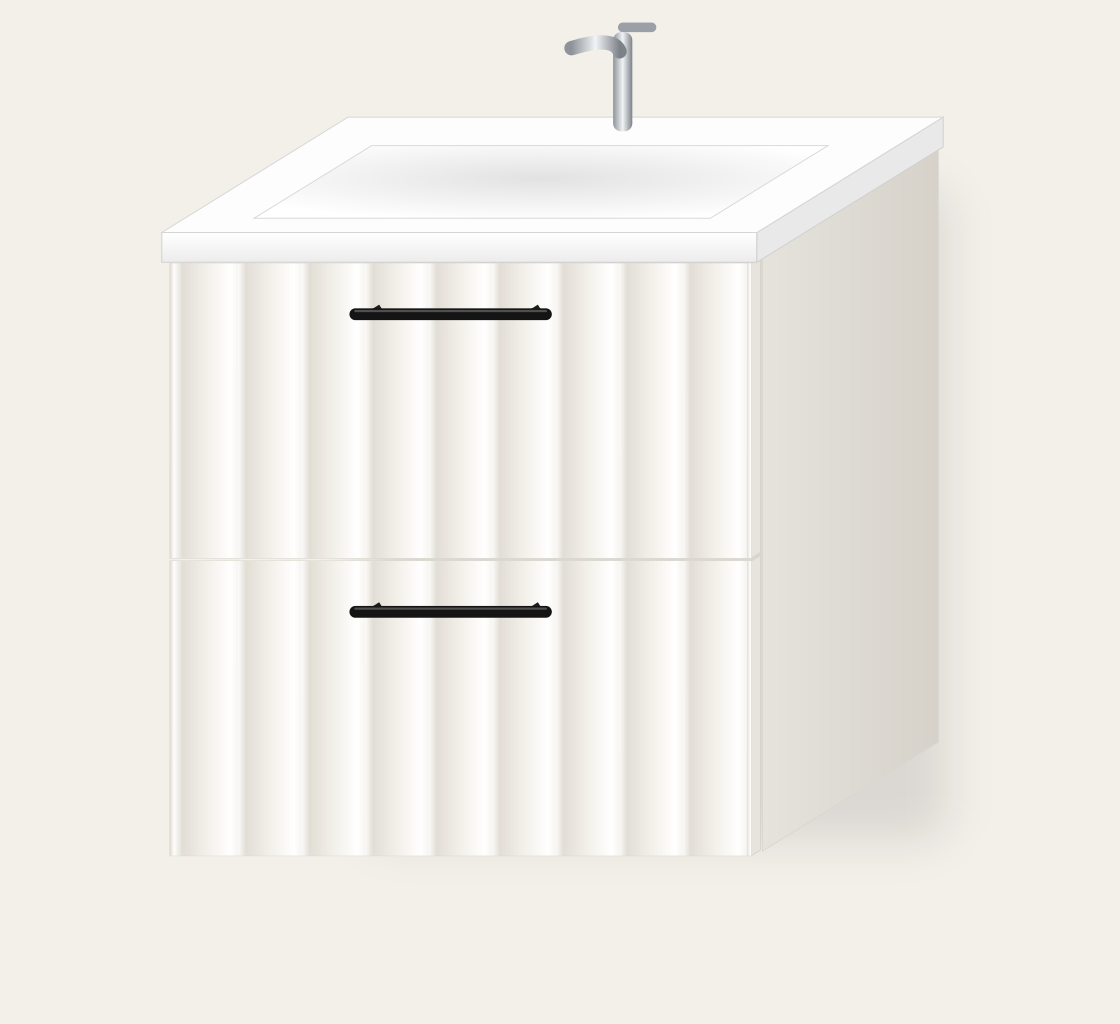
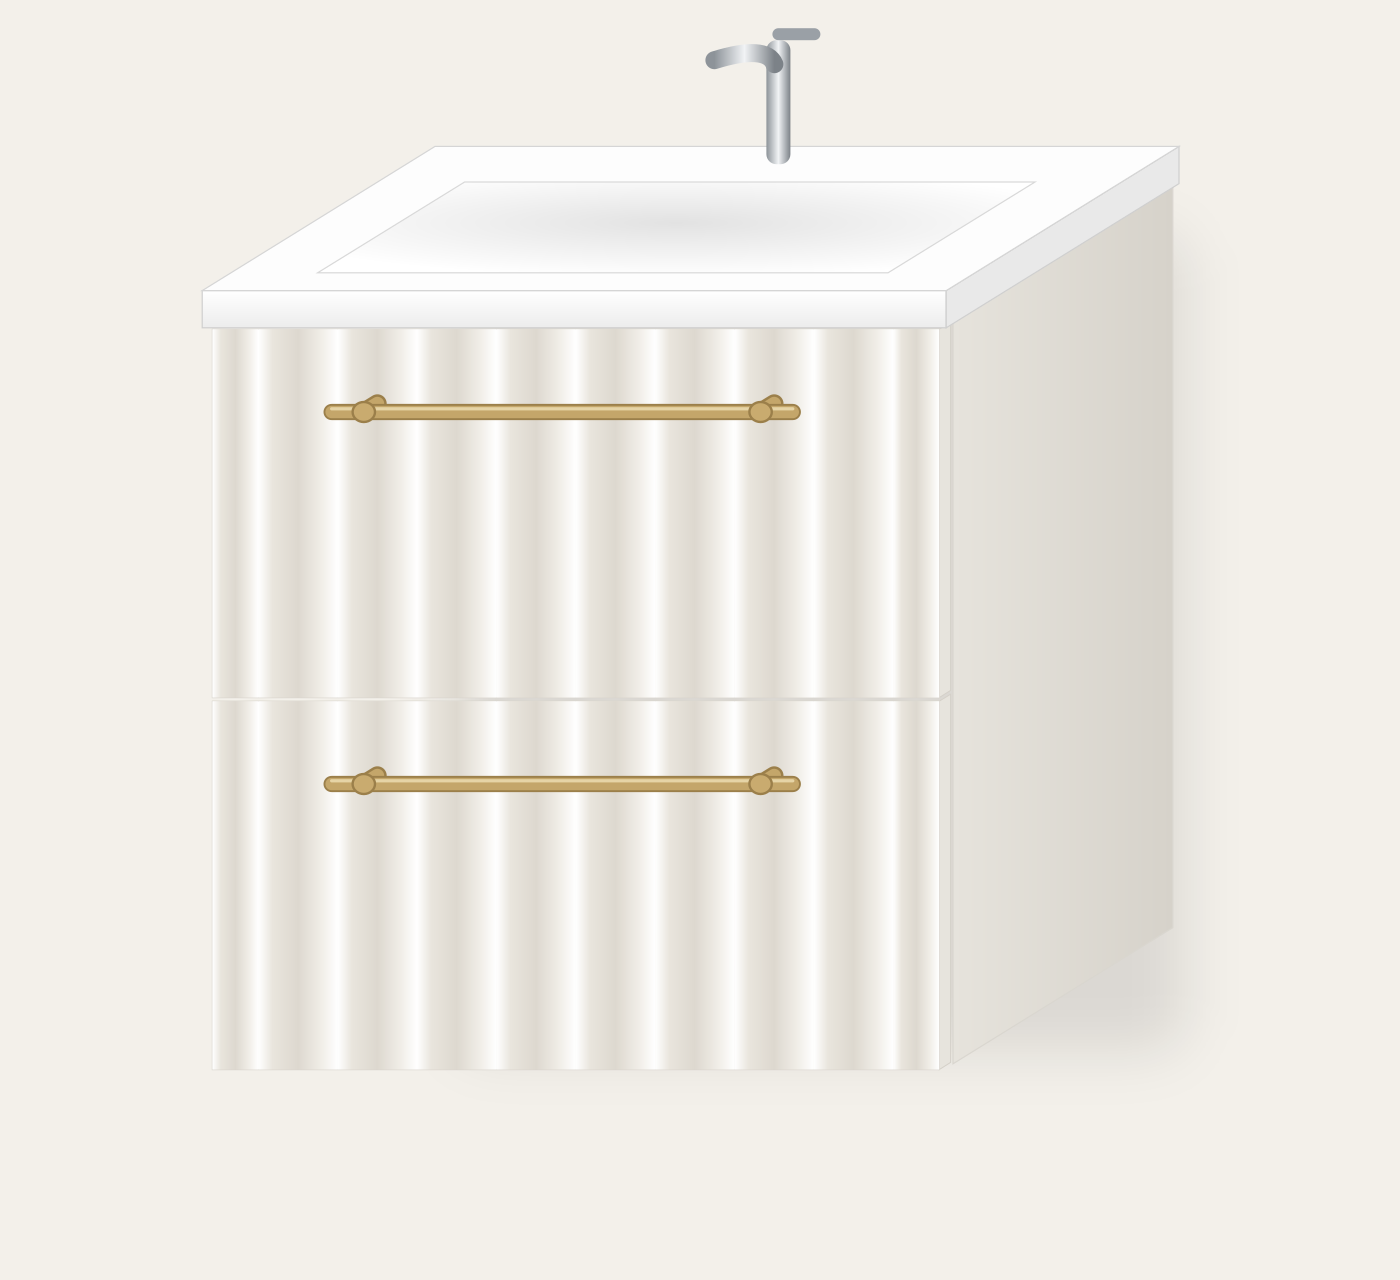
Модель 3: визуал с ручкой Bravo Sunrise FX-050-320-16 (матове золото), волны от гребня в центре
Claude-Session: https://claude.ai/code/session_01SKsW9MPvsMJrjoN6PXae5T

Changed region(s): [[0.1875, 0.25, 0.6875, 0.8438]]

diff --git a/modeli/vizual_podves.py b/modeli/vizual_podves.py
@@ -27,6 +27,27 @@ def handle(v, P, xy, hx, hy, zf=0):
     v.append(f'<line x1="{ax}" y1="{ay-2}" x2="{bx}" y2="{by-2}" stroke="rgba(255,255,255,.25)" stroke-width="1.4" stroke-linecap="round"/>')
 
 
+def handle_sunrise(v, P, xy, hx, hy, zf=0, cc=320, L=372, proj=26):
+    """Bravo Sunrise FX-050-320-16, матове золото: круглая штанга Ø12, стойки Ø15 на ±cc/2, вылет ≈26 (ось штанги)."""
+    gold = "#c4a66a"   # матове золото (сплошной цвет: градиент на линии без высоты не рисуется)
+    (sax, say), (sbx, sby) = xy(P(hx - L / 2 + 6, hy - 12, zf)), xy(P(hx + L / 2 + 6, hy - 12, zf))
+    v.append(f'<line x1="{sax}" y1="{say}" x2="{sbx}" y2="{sby}" stroke="rgba(0,0,0,.16)" stroke-width="{10*s:.1f}" stroke-linecap="round" filter="url(#blur)"/>')
+    for c in (hx - cc / 2, hx + cc / 2):
+        (x1, y1), (x2, y2) = xy(P(c, hy, zf)), xy(P(c, hy, zf - proj))
+        v.append(f'<line x1="{x1}" y1="{y1}" x2="{x2}" y2="{y2}" stroke="#9b7f4a" stroke-width="{15*s:.1f}" stroke-linecap="round"/>')
+        v.append(f'<line x1="{x1}" y1="{y1}" x2="{x2}" y2="{y2}" stroke="{gold}" stroke-width="{11*s:.1f}" stroke-linecap="round"/>')
+    (ax, ay), (bx, by) = xy(P(hx - L / 2, hy, zf - proj)), xy(P(hx + L / 2, hy, zf - proj))
+    v.append(f'<line x1="{ax}" y1="{ay}" x2="{bx}" y2="{by}" stroke="#9b7f4a" stroke-width="{13*s:.1f}" stroke-linecap="round"/>')
+    v.append(f'<line x1="{ax}" y1="{ay}" x2="{bx}" y2="{by}" stroke="{gold}" stroke-width="{10*s:.1f}" stroke-linecap="round"/>')
+    v.append(f'<line x1="{ax}" y1="{ay-1.6}" x2="{bx}" y2="{by-1.6}" stroke="#e6d4a6" stroke-width="1.6" stroke-linecap="round"/>')
+    for c in (hx - cc / 2, hx + cc / 2):   # кольцо стойки на штанге
+        cx_, cy_ = xy(P(c, hy, zf - proj))
+        v.append(f'<ellipse cx="{cx_}" cy="{cy_}" rx="{9*s:.1f}" ry="{8*s:.1f}" fill="#c9ab6f" stroke="#9b7f4a" stroke-width="1.2"/>')
+
+
+SUNRISE_AXIS = 60  # ось ручки от верхнего края фасада, мм
+
+
 LT22_DROP = 38   # верх профиля LT22 от верхнего края фасада (модель 2, под рамкой)
 
 
@@ -88,7 +109,7 @@ def render(mkey, style):
             cx = (xl + xr) / 2
             k0 = -int((cx - xl) // 64) - 1
             for kk in range(k0, -k0 + 1):
-                a, b2 = cx + kk * 64 - 32, cx + kk * 64 + 32
+                a, b2 = cx + kk * 64, cx + kk * 64 + 64   # от гребня до гребня: гребень в центре, дно волн на ±32, ±96, ±160…
                 a, b2 = max(a, xl), min(b2, xr)
                 if b2 - a < 2:
                     continue
@@ -98,6 +119,8 @@ def render(mkey, style):
             if style == "maura":
                 # под рамкой Мауры: рамка ~20 мм + фреза (центр 23) -> верх профиля на 38 мм ниже края
                 handle_lt22(v, P, xy, poly, f["x"] + f["w"] / 2, Y0 + f["top"] - LT22_DROP)
+            elif style == "sunset":
+                handle_sunrise(v, P, xy, f["x"] + f["w"] / 2, Y0 + f["top"] - SUNRISE_AXIS)
             else:
                 handle(v, P, xy, f["x"] + f["w"] / 2, Y0 + f["top"] - 45)
     # умывальник
@@ -118,7 +141,8 @@ def render(mkey, style):
  <linearGradient id="frontGrad" x1="0" y1="0" x2="1" y2="1"><stop offset="0" stop-color="#ffffff"/><stop offset="1" stop-color="#efece6"/></linearGradient>
  <linearGradient id="panelGrad" x1="0" y1="0" x2="1" y2="1"><stop offset="0" stop-color="#fbfaf7"/><stop offset="1" stop-color="#eeebe4"/></linearGradient>
  <linearGradient id="sideGrad" x1="0" y1="0" x2="1" y2="0"><stop offset="0" stop-color="#e6e3dc"/><stop offset="1" stop-color="#d6d2ca"/></linearGradient>
- <linearGradient id="wave" x1="0" y1="0" x2="1" y2="0"><stop offset="0" stop-color="#fbfaf8"/><stop offset=".12" stop-color="#e2ded6"/><stop offset=".5" stop-color="#f3f0ea"/><stop offset=".88" stop-color="#ffffff"/><stop offset="1" stop-color="#f7f5f1"/></linearGradient>
+ <linearGradient id="wave" x1="0" y1="0" x2="1" y2="0"><stop offset="0" stop-color="#ffffff"/><stop offset=".18" stop-color="#e9e5dd"/><stop offset=".5" stop-color="#ddd8cf"/><stop offset=".8" stop-color="#f1eee8"/><stop offset="1" stop-color="#ffffff"/></linearGradient>
+ <linearGradient id="gold" x1="0" y1="0" x2="0" y2="1"><stop offset="0" stop-color="#e8d3a0"/><stop offset=".45" stop-color="#c9a965"/><stop offset="1" stop-color="#9c7c42"/></linearGradient>
  <linearGradient id="pullTop" x1="0" y1="1" x2="0" y2="0"><stop offset="0" stop-color="#6d6a64"/><stop offset=".35" stop-color="#bdb8af"/><stop offset="1" stop-color="#f4f2ed"/></linearGradient>
  <linearGradient id="pullBot" x1="0" y1="0" x2="0" y2="1"><stop offset="0" stop-color="#57544f"/><stop offset=".4" stop-color="#b3aea5"/><stop offset="1" stop-color="#f4f2ed"/></linearGradient>
  <linearGradient id="sinkFront" x1="0" y1="0" x2="0" y2="1"><stop offset="0" stop-color="#ffffff"/><stop offset="1" stop-color="#ececec"/></linearGradient>
